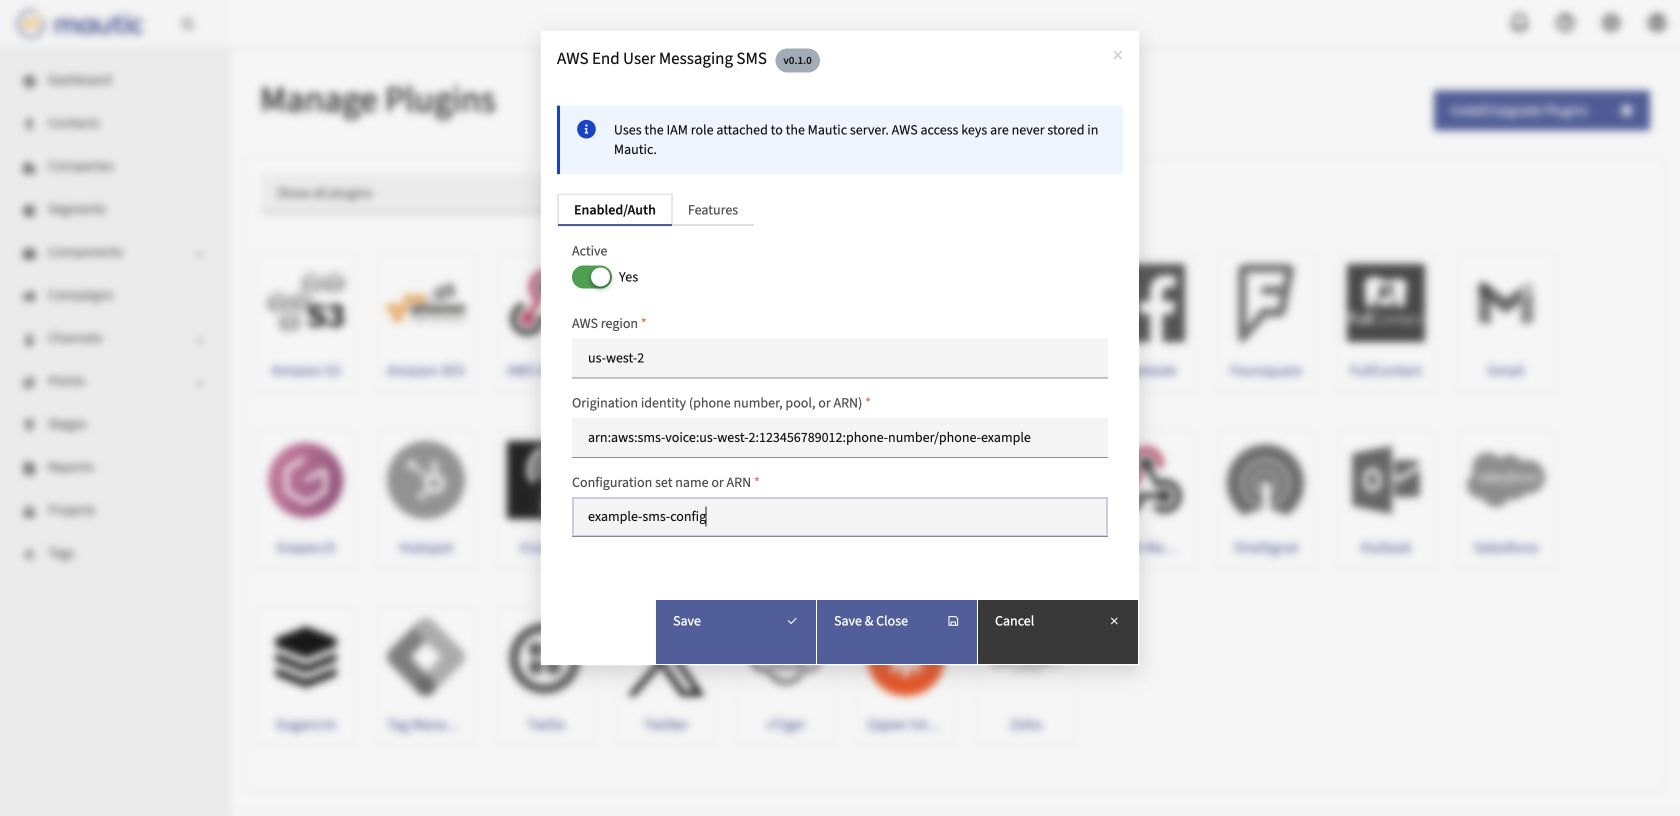
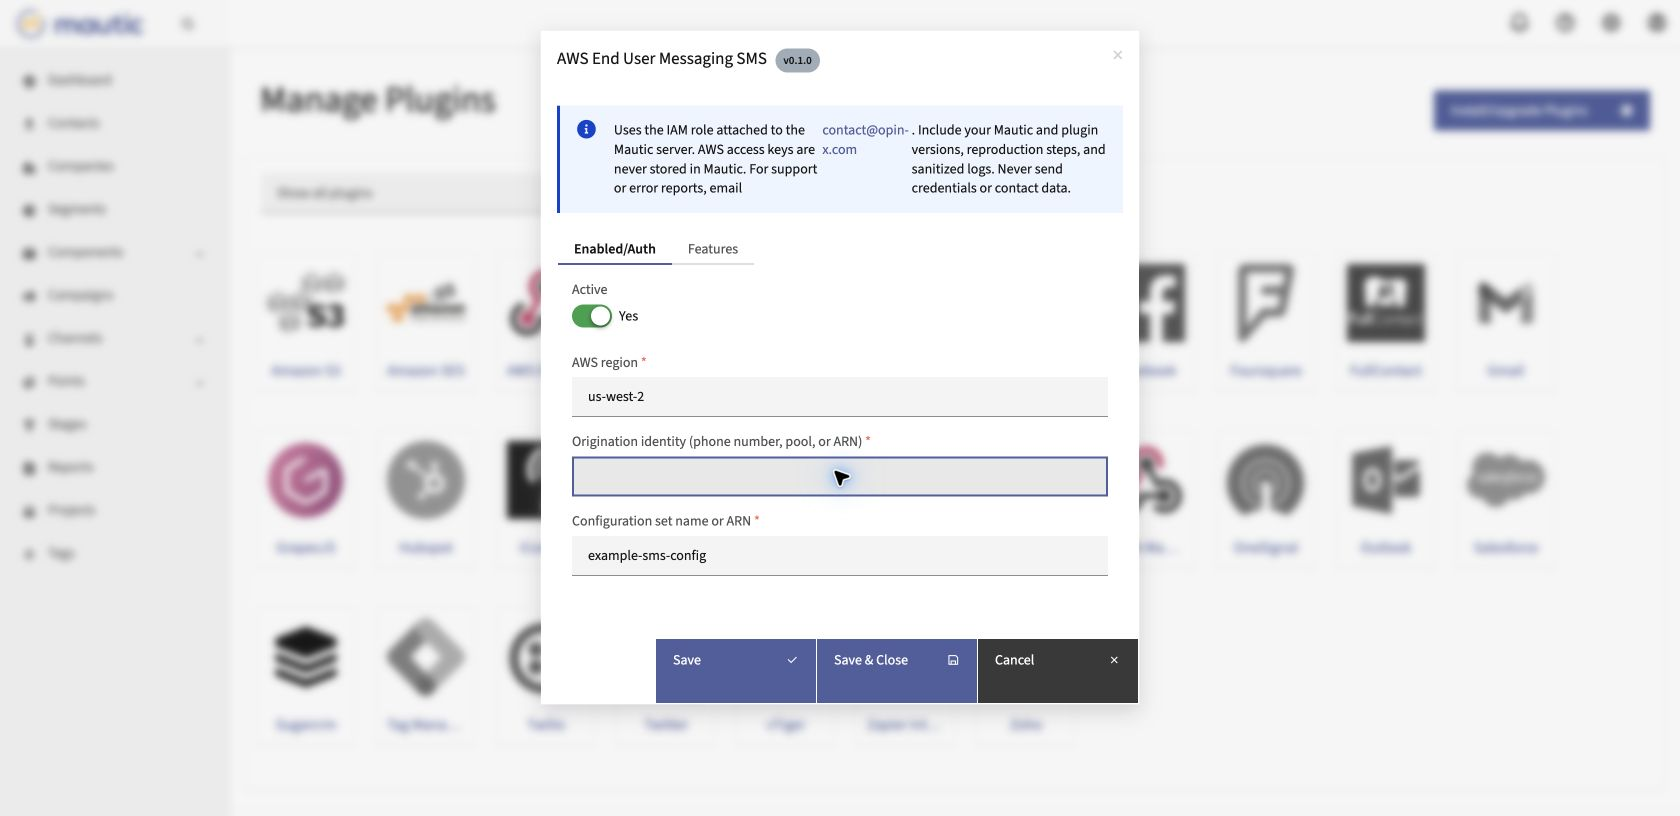
docs: remove ARN from setup screenshot

Changed region(s): [[0.3405, 0.1532, 0.681, 0.7047], [0.3095, 0.7353, 0.681, 0.8885]]

diff --git a/docs/INSTALLATION.md b/docs/INSTALLATION.md
@@ -53,7 +53,7 @@ Configure the following fields:
 4. Enter the configuration set name or ARN.
 5. Keep delivery in a non-production mode until the canary test succeeds.
 
-The values shown in the screenshot are examples only. A phone number or ARN from another AWS account will not work.
+The origination identity field is intentionally blank in the public screenshot. Enter your own phone number, pool, or ARN locally; a phone number or ARN from another AWS account will not work.
 
 ## 4. Configure SMS safety controls
 
